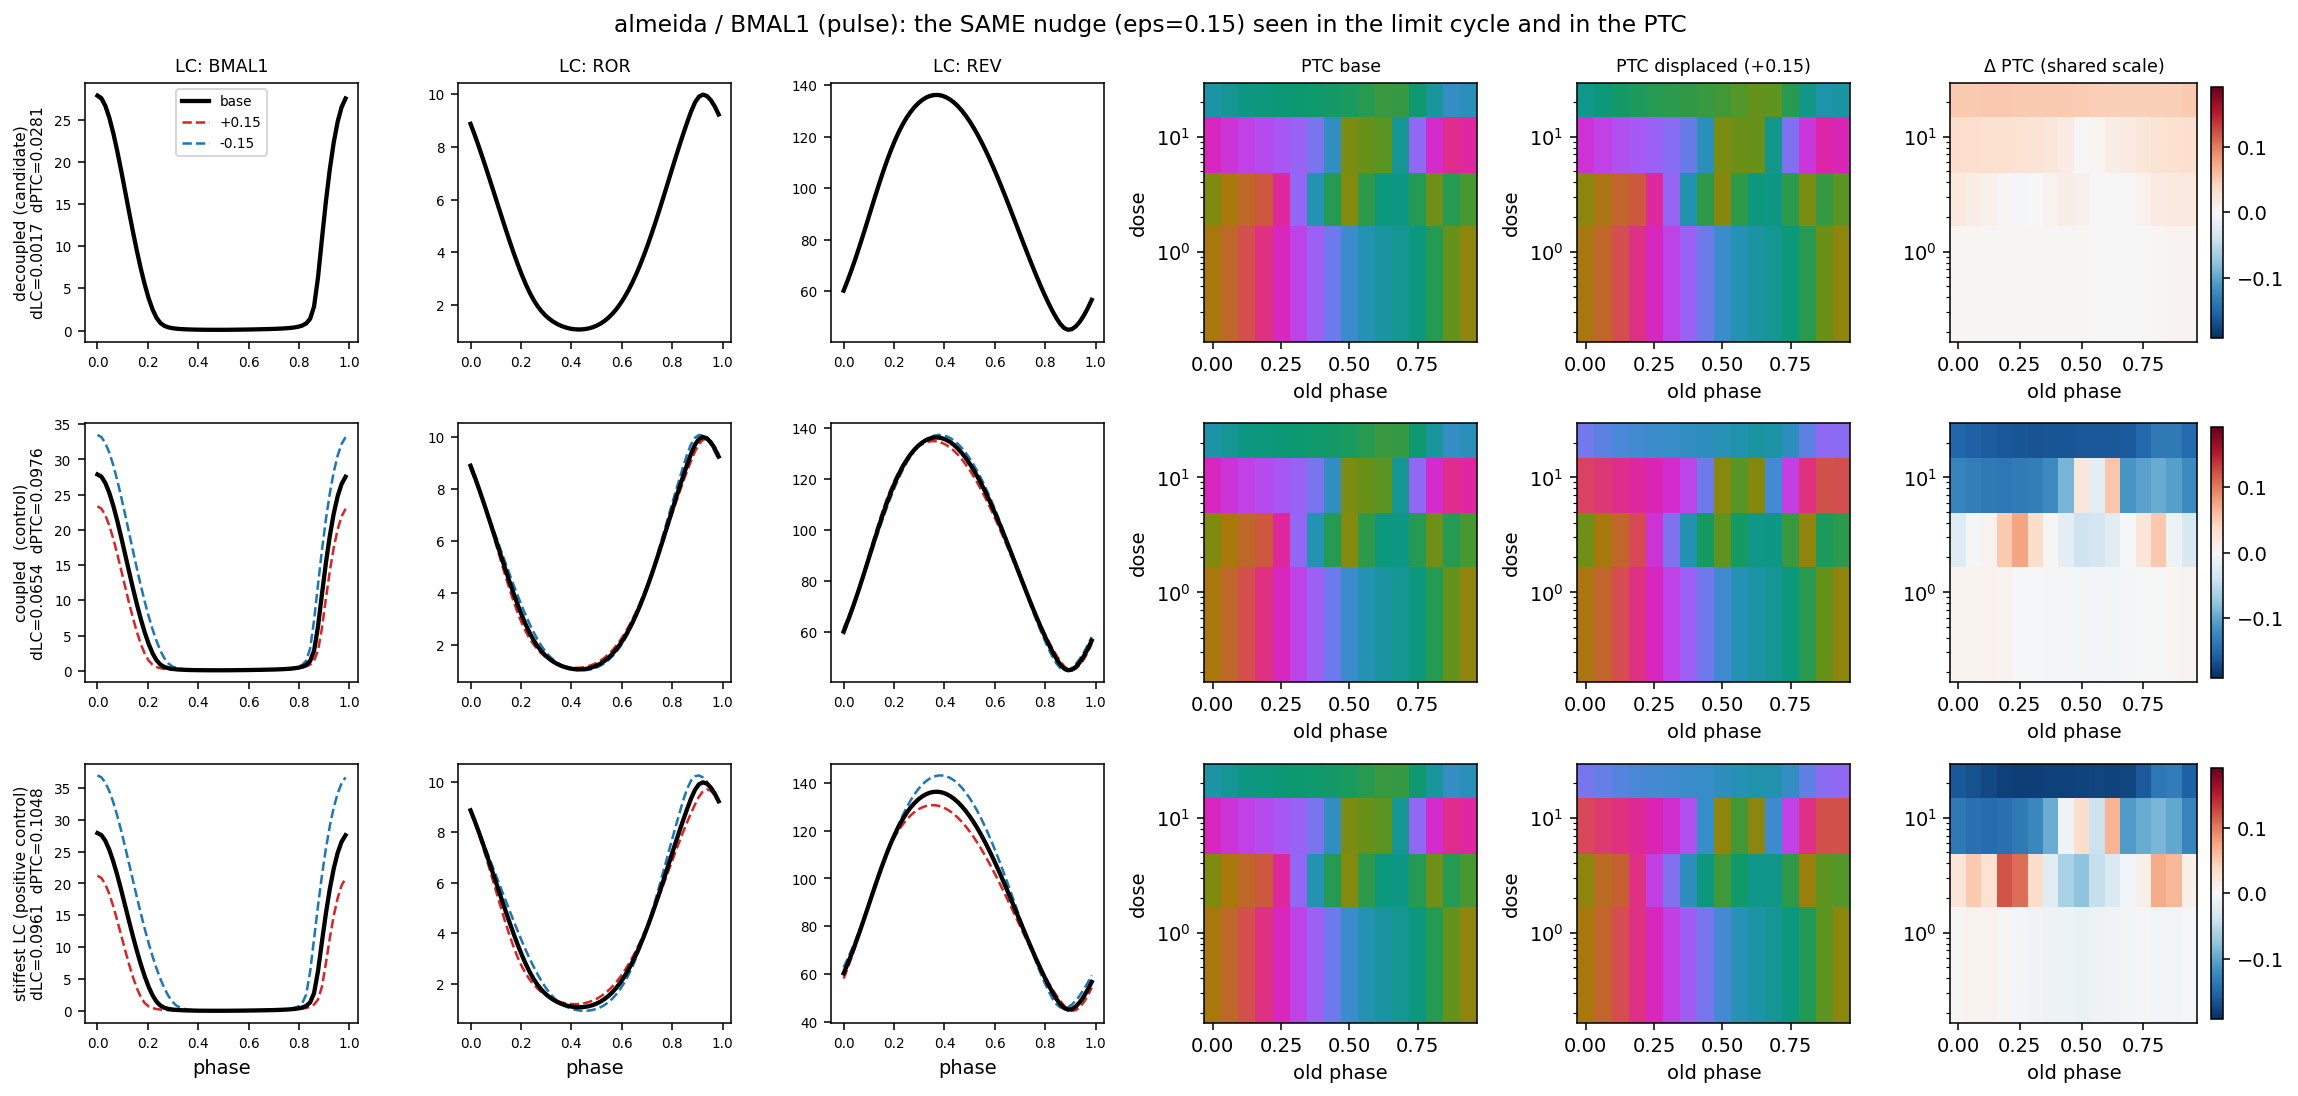
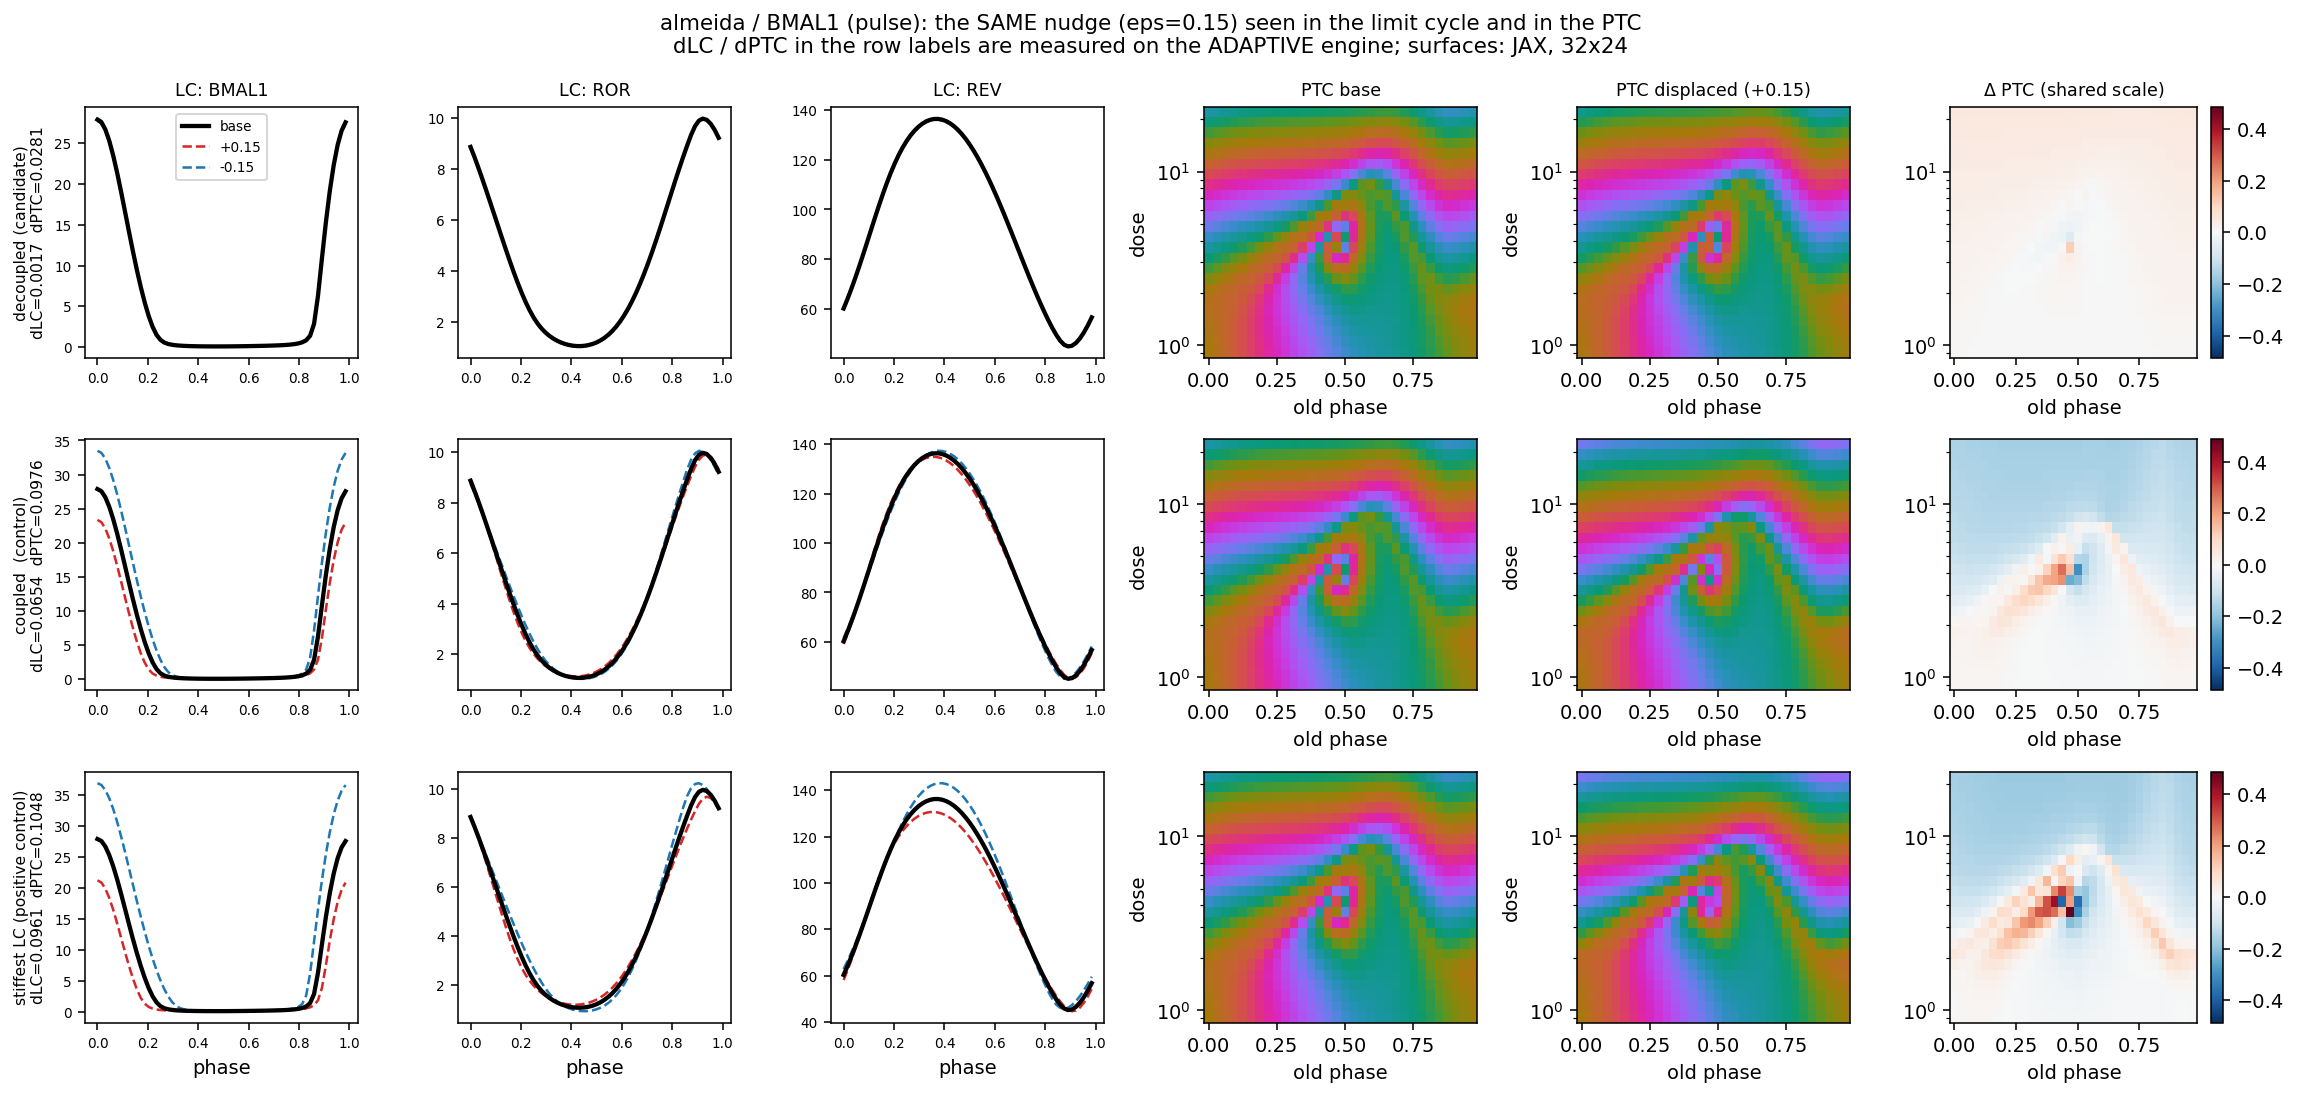
direction_examples figure + dense render from saved parameter values
The side-by-side actually asked for: one row per direction, the SAME nudge shown
as limit-cycle profiles (base solid, +/-eps dashed) beside the PTC base, the
displaced PTC, and their difference, with every Delta panel on one shared scale so
the rows compare to each other.

Surfaces are a 32x24 JAX render rather than the 4x16 adaptive verification grid --
the adaptive engine is what VERIFIES (it shares no machinery with the jacobian)
but it is too slow to sample densely, and the two agree to 1.6e-05 on this model.
Numbers in the row labels come from the adaptive run, pictures from the dense one,
and both are saved and labelled as such in the figure subtitle.

Added --dense-only, which adds/refreshes that render on an EXISTING confirm run by
reading the saved param_values. It took ~30 s and needed no re-verification --
a direct demonstration of why the raw arrays are worth keeping. The first attempt
at the dense render had failed with KeyError: 'vr' because it built a parameter
dict from the 15 gauge-quotiented names instead of overriding the model's full 18;
the verification still completed and saved, which is the separate-try-block
discipline working as intended.

What the figure honestly shows, recorded in PROJECT_SUMMARY: the decoupled
direction moves the PTC about 3.5x LESS in absolute terms than the controls
(0.028 vs 0.098 rms). It is decoupled because it moves the limit cycle 38-57x less
[…]

diff --git a/analysis/confirm.py b/analysis/confirm.py
@@ -43,6 +43,66 @@ import analysis  # noqa: F401
 import paths
 
 
+def _full_params(model, names, values):
+    """A COMPLETE parameter dict: the model's base, with `names` overridden by `values`.
+
+    `names` is the gauge-quotiented subset the coupling analysis kept, not the whole parameter
+    set, so a dict built from it alone is missing entries the RHS needs."""
+    pd = dict(model.get_parameters())
+    pd.update({n: float(v) for n, v in zip(names, values)})
+    return pd
+
+
+def dense_render(model_name, target, mode='pulse', n_phase=32):
+    """Add a dense JAX render of an EXISTING confirm run, in place.
+
+    This is what saving `param_values` buys: the expensive adaptive verification does not have
+    to be repeated to get a better picture of the same parameter sets. Reads the npz, computes,
+    writes it back."""
+    import jax
+    from models import get_model
+    from engine.orbit import make_orbit_finder
+    from engine.ptc import make_ptc, grid_points, phase_or_nan, valid_mask, recommended_skip
+    from analysis.ptc_sens import load_grid
+
+    model = get_model(model_name)
+    fp = paths.out_path(model_name, 'coupling', f'confirm_{target}_{mode}.npz')
+    cf = dict(np.load(fp, allow_pickle=True))
+    names = [str(x) for x in cf['param_names']]
+    dgrid, ddt = load_grid(model_name, target, mode)
+    skip_p, _mu, _r = recommended_skip(model, tol=1e-2, verbose=False)
+    f, _sv = make_ptc(model, target, mode=mode, readout='raw', skip_p=skip_p,
+                      dt=ddt or 0.02, track_min=True)
+    fj = jax.jit(f)
+    gph, gdz = grid_points(n_phase, dgrid)
+    find, _s = make_orbit_finder(model)
+
+    def one(params):
+        x0, _T, _C, st = find(params)
+        if x0 is None:
+            return None, st
+        z, mn = fj(model.jax_params(params), x0, gph, gdz)
+        p, _a = phase_or_nan(np.asarray(z))
+        p = np.where(valid_mask(np.asarray(mn)), p, np.nan)
+        return p.reshape(len(dgrid), n_phase).T, 'ok'
+
+    db, st = one(model.get_parameters())
+    if db is None:
+        raise SystemExit(f'base orbit not usable ({st})')
+    grids = []
+    for pv in np.asarray(cf['param_values']):
+        g, st = one(_full_params(model, names, pv))
+        grids.append(g if g is not None else np.full_like(db, np.nan))
+    cf.update(dense_doses=np.asarray(dgrid), dense_old=np.arange(n_phase) / n_phase,
+              dense_base=db.astype(np.float32),
+              dense_ptc_grids=np.array(grids, dtype=np.float32),
+              dense_dt=float(ddt or 0.02), dense_engine='jax')
+    paths.savez(fp, **cf)
+    print(f"[confirm] dense render {n_phase}x{len(dgrid)} added for "
+          f"{len(grids)} displacement(s) -> {fp}")
+    return cf
+
+
 def displaced(model, names, v, eps):
     """Base parameters displaced by exp(eps * v) in log space, v unit-norm."""
     base = model.get_parameters()
@@ -201,7 +261,11 @@ def run(model_name, target, mode='pulse', eps=0.15, n_phases=16, n_dose=3, featu
             return p.reshape(len(dgrid), nph).T          # (n_phase, n_dose)
 
         db = dense_ptc(model.get_parameters())
-        dg = [dense_ptc({n: float(val) for n, val in zip(names, pv)}) for pv in PARAMSETS]
+        # start from the FULL base dict and override the kept names: `names` is the gauge-
+        # quotiented subset the coupling analysis kept (15 of Almeida's 18), so a dict built
+        # from it alone is missing parameters the model needs and the RHS raises on the first
+        # one it cannot find.
+        dg = [dense_ptc(_full_params(model, names, pv)) for pv in PARAMSETS]
         dense = dict(dense_doses=np.asarray(dgrid), dense_old=np.arange(nph) / nph,
                      dense_base=db.astype(np.float32),
                      dense_ptc_grids=np.array([g if g is not None else
@@ -259,7 +323,12 @@ def main(argv=None):
     ap.add_argument('--eps', type=float, default=0.15)
     ap.add_argument('--n-phases', type=int, default=16)
     ap.add_argument('--n-dose', type=int, default=3)
+    ap.add_argument('--dense-only', action='store_true',
+                    help='add/refresh the dense JAX render of an existing run, no re-verify')
     a = ap.parse_args(argv)
+    if a.dense_only:
+        dense_render(a.model, a.target, a.mode)
+        return 0
     run(a.model, a.target, a.mode, a.eps, a.n_phases, a.n_dose)
     return 0
 

diff --git a/analysis/figures.py b/analysis/figures.py
@@ -348,12 +348,11 @@ def fig_direction_examples(cf, model, target, mode, n_states=3):
         axes[r][n_states + 2].set_yscale('log')
         axes[r][n_states + 2].set_xlabel('old phase')
         if r == 0:
-            axes[r][n_states + 2].set_title('$\Delta$ PTC (shared scale)', fontsize=9)
+            axes[r][n_states + 2].set_title(r'$\Delta$ PTC (shared scale)', fontsize=9)
         plt.colorbar(im, ax=axes[r][n_states + 2], fraction=0.046)
     axes[0][0].legend(fontsize=7, loc='best')
-    fig.suptitle(f"{model} / {target} ({mode}): the SAME nudge (eps={eps:g}) seen in the limit "
-                 f"cycle and in the PTC
-"
+    fig.suptitle(f"{model} / {target} ({mode}): the SAME nudge (eps={eps:g}) seen in the "
+                 f"limit cycle and in the PTC\n"
                  f"dLC / dPTC in the row labels are measured on the ADAPTIVE engine; "
                  f"{engine_note}", fontsize=11)
     fig.tight_layout()

diff --git a/PROJECT_SUMMARY.md b/PROJECT_SUMMARY.md
@@ -302,6 +302,19 @@ the PTC by 3.0% rms — an actual PTC-per-LC ratio **11x** that of the coupled c
 positive control moves both, so the measurement is working rather than reporting noise; and the
 two signs agree closely (0.0300 / 0.0305), so this is not a one-sided artifact of the step.
 
+![The same nudge in LC and in PTC](docs/figures/almeida_direction_examples_BMAL1_pulse.png)
+
+**Read that figure carefully, because it does not say what a quick glance suggests.** In row 1
+the dashed +/-eps cycles are invisible under the black base curve, and the PTC Delta is a small
+dipole localised at the singularity. In rows 2-3 the cycles visibly separate and the PTC Delta
+is broad and strong. So the decoupled direction does **not** move the PTC more in absolute
+terms -- it moves it about 3.5x LESS (0.028 vs 0.098). What makes it decoupled is that it moves
+the limit cycle 38-57x less than that. The claim is a RATIO, and the figure shows the ratio,
+not a large PTC excursion.
+
+The localisation is itself the expected signature: a red/blue dipole at the singularity is the
+phase singularity being displaced, which is exactly what an isochron change looks like.
+
 **The magnitude is overstated by the linear analysis, and that matters.** rho is a ratio of
 squared responses, so the comparable linear prediction for the amplitude ratio is
 `sqrt(122.3/0.01) ~ 140x` against an actual **11x** — the jacobian overstates by roughly 13x.
